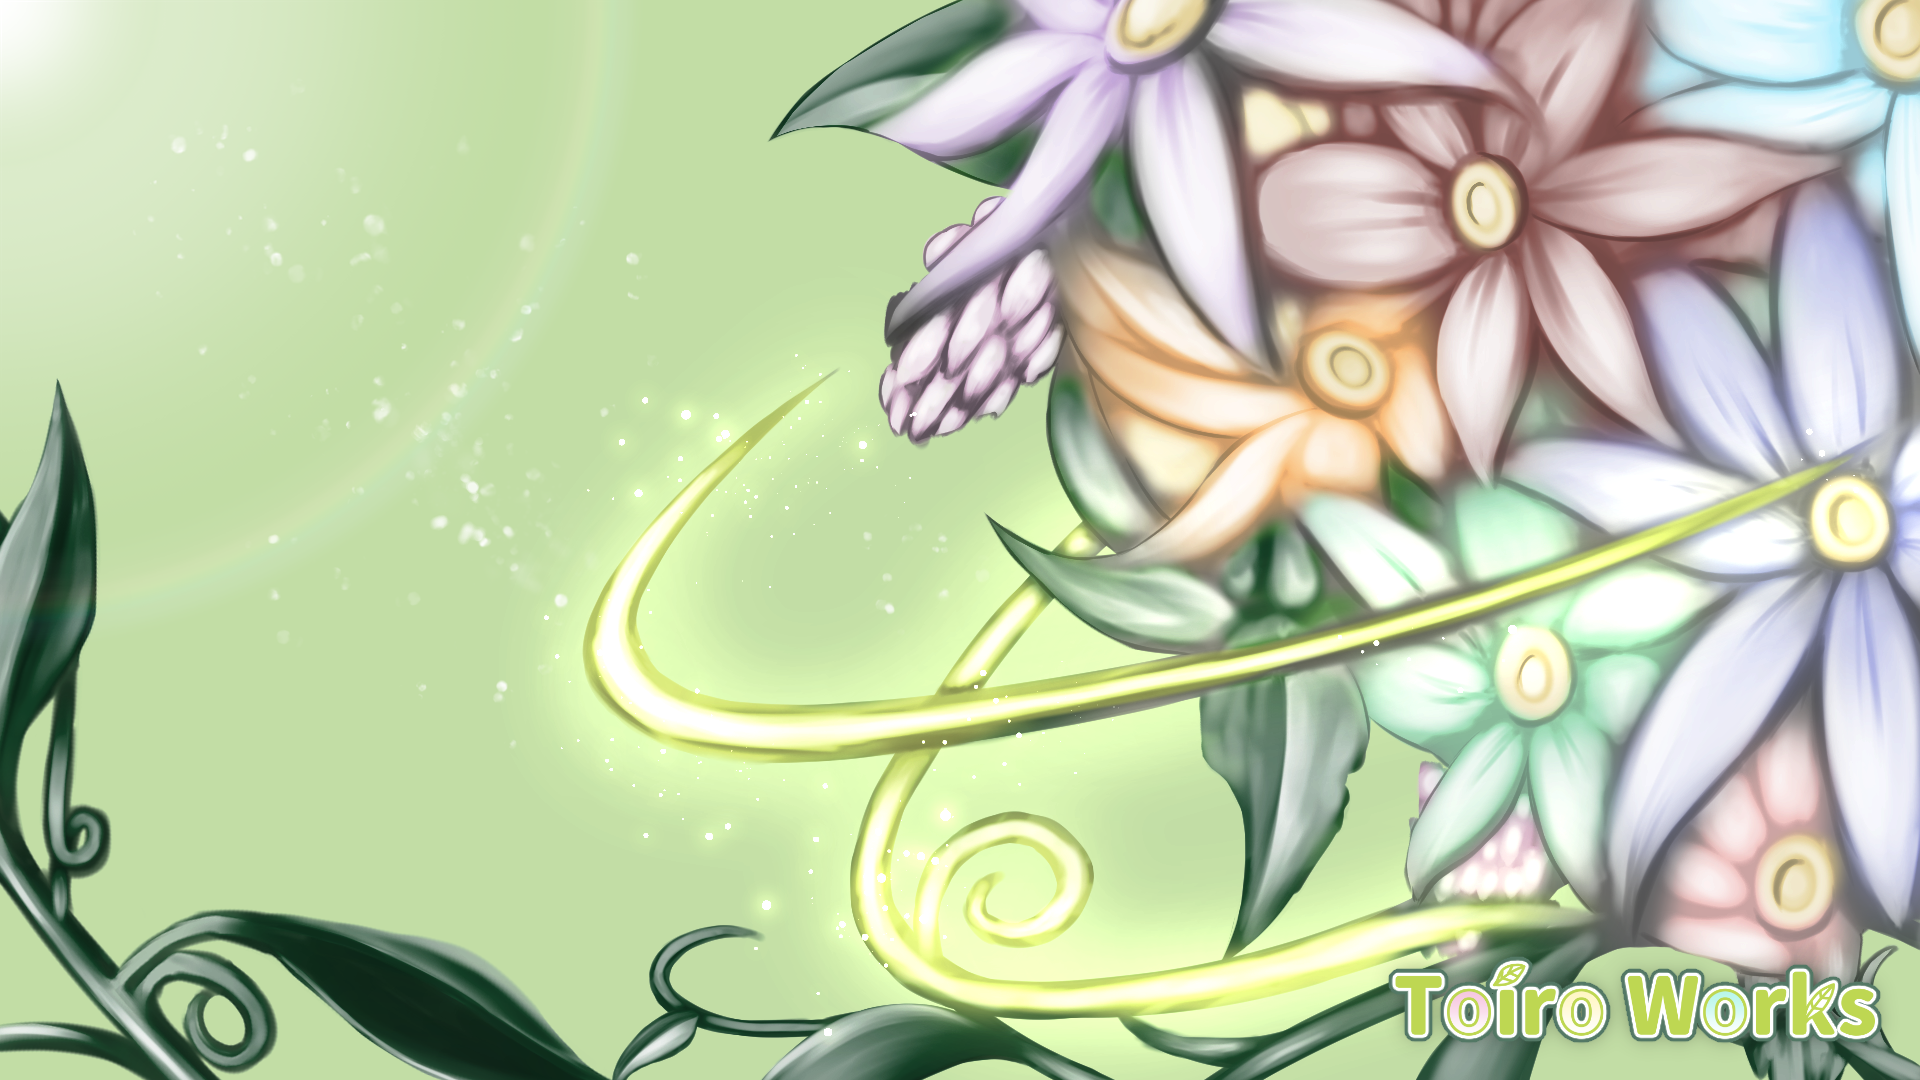
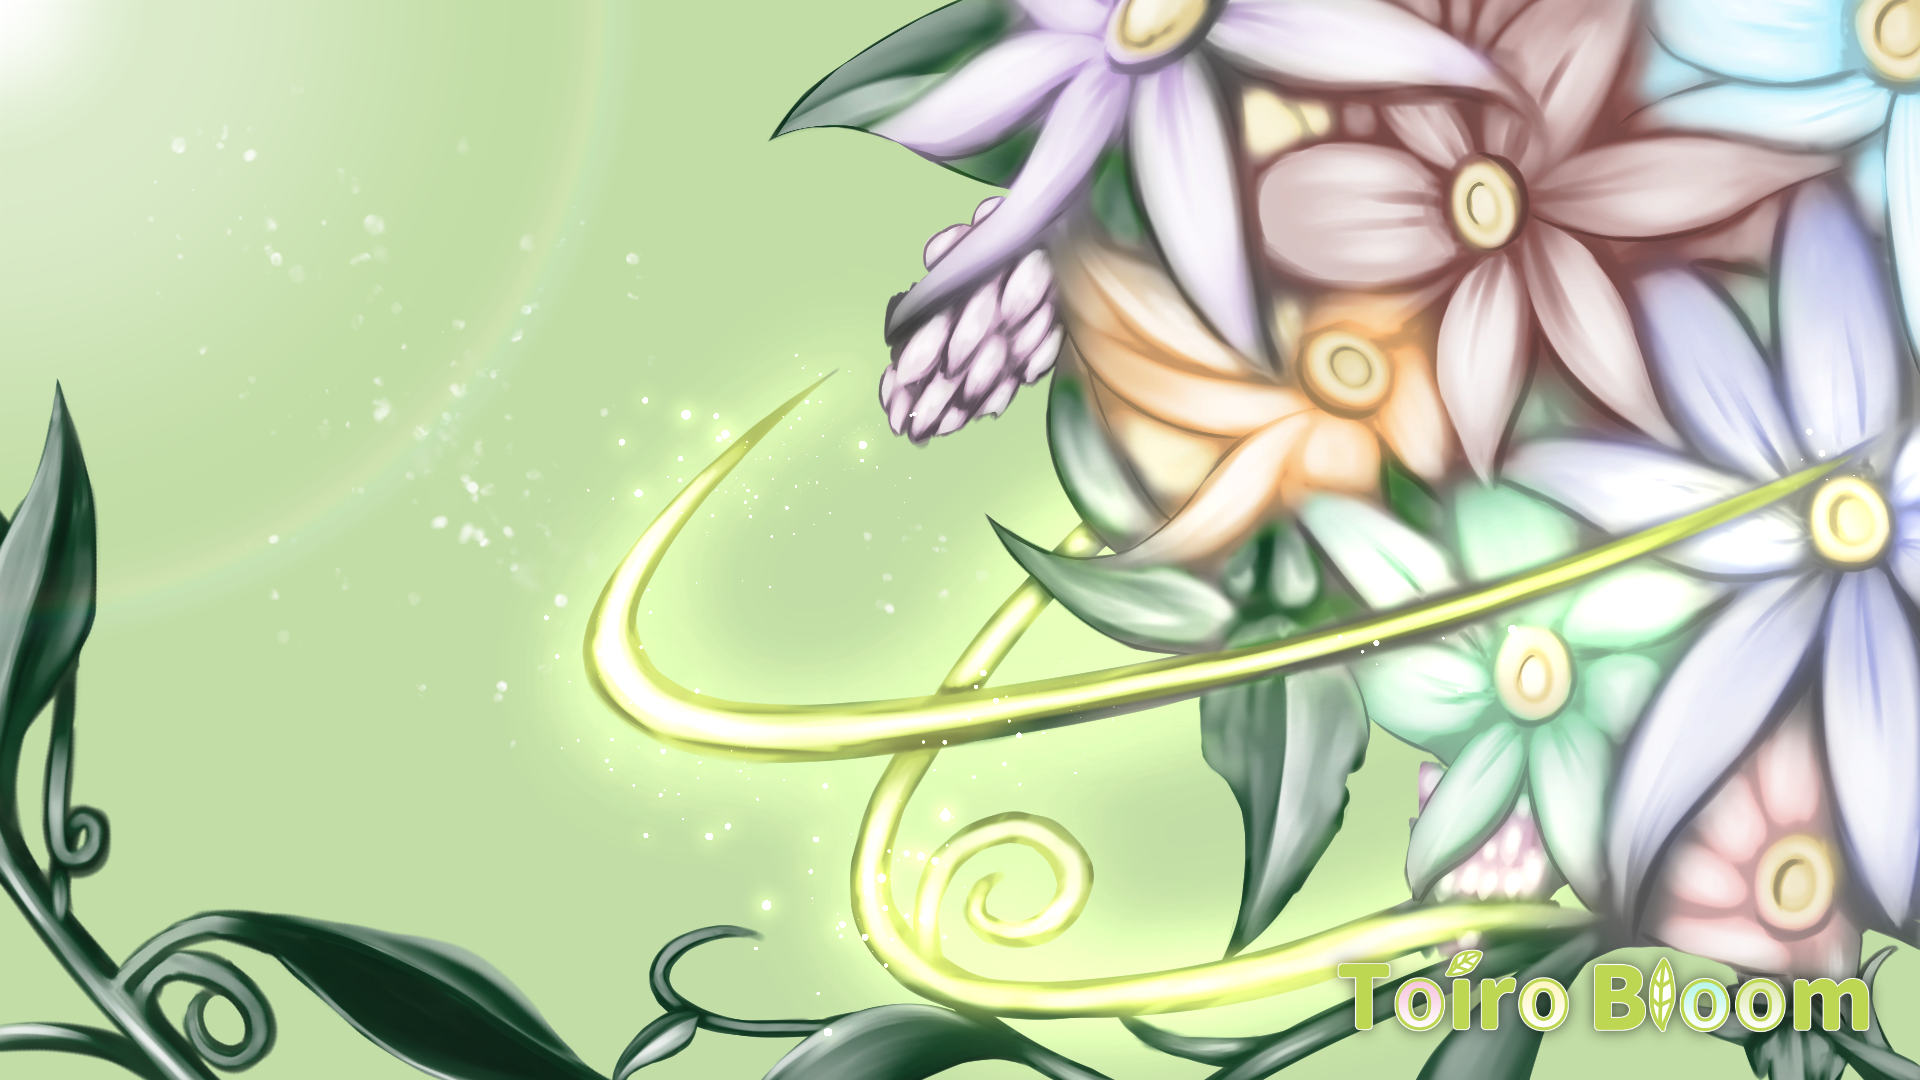
Add files via upload

Changed region(s): [[0.6875, 0.8556, 1.0, 0.9778]]

diff --git a/index.html b/index.html
@@ -4,7 +4,7 @@
 <meta charset="UTF-8">
 <meta name="viewport" content="width=device-width, initial-scale=1.0">
 <title>Komori Yatono Portfolio</title>
-<meta name="description" content="小森やと乃のポートフォリオサイトです。本サイトは、Web制作を行うフリーランスチーム Toiro Works の一部として運営されています。">
+<meta name="description" content="小森やと乃のポートフォリオサイトです。本サイトは、Web制作を行うフリーランスチーム Toiro Bloom の一部として運営されています。">
 
 <!-- Google Fonts -->
 <link rel="preconnect" href="https://fonts.googleapis.com">
@@ -64,18 +64,10 @@
 <section id="hero"></section>
 
 <main>
-<section id="about">
-  <h2>About</h2>
-  <div class="left-text">
-    <p>小森やと乃のポートフォリオサイトです。イラストやデザインの作品を紹介しています。</p>
-    <p>本サイトは、Web制作を行うフリーランスチーム"Toiro Works"の一部として運営されています。</p>
-    <p><b>※無断転載及びAI学習等といった迷惑行為等を固く禁じます。</b></p>
-  </div>
-</section>
 
 <section id="works-illustration">
   <div class="frame"><div class="frame-h2">
-  <h2>Works - for Toiro Works</h2>
+  <h2>Works - for Toiro Bloom</h2>
 
   <!-- 中型展示 -->
   <div class="gallery">
@@ -137,15 +129,15 @@
 
     <!-- 大型展示 -->
     <div class="gallery-item size-large works-image">
-      <a href="mv.png" data-lightbox="works" data-title="ToiroWorksメインビジュアル">
-        <div class="img-wrapper"><img src="mv.png" alt="ToiroWorksメインビジュアル" class="work-image"></div>
+      <a href="mv.png" data-lightbox="works" data-title="ToiroBloomメインビジュアル">
+        <div class="img-wrapper"><img src="mv.png" alt="ToiroBloomメインビジュアル" class="work-image"></div>
       </a>
       <p>メインビジュアル</p>
     </div>
 
     <div class="gallery-item size-large works-image">
-      <a href="ToiroWorks.png" data-lightbox="works" data-title="ToiroWorksロゴ">
-        <div class="img-wrapper"><img src="ToiroWorks.png" alt="ToiroWorksロゴ" class="work-image"></div>
+      <a href="ToiroBloom.png" data-lightbox="works" data-title="ToiroBloomロゴ">
+        <div class="img-wrapper"><img src="ToiroBloom.png" alt="ToiroBloomロゴ" class="work-image"></div>
       </a>
       <p>ロゴ</p>
     </div>
@@ -203,8 +195,24 @@
   <h2>X(旧Twitter)</h2>
   <p>@Komori_Yatono</p>
   <h2>所属チーム公式X</h2>
-  <p>@10iro_works</p>
+  <p>@10iro_bloom</p>
   <p><a href="https://x.com/10iro_works" class="button" target="_blank" rel="noopener noreferrer">お仕事依頼はこちらから</a></p>
+</section>
+
+<section id="about">
+  <h2>About</h2>
+
+  <div class="profile">
+    <img src="yatono.png" alt="プロフィールアイコン" class="icon">
+    <div class="left-text">
+    <p>名前：小森やと乃</p>
+    <p>web制作フリーランスチーム Toiro Bloom所属</p>
+    <p>イラスト制作が得意。同チーム内では、主に画像系を担当。</p>
+    <p>コーヒーとお酒を嗜むランタンヘッド。愛知出身。</p>
+    <p><b>※無断転載及びAI学習等禁止</b></p>
+  </div>
+  </div>
+
 </section>
 
 <!-- ガードロープ -->
@@ -217,7 +225,7 @@
 </main>
 
 <footer>
-<p>&copy; 2025 Toiro Works</p>
+<p>&copy; 2025 Toiro Bloom</p>
 </footer>
 
 <script src="https://cdnjs.cloudflare.com/ajax/libs/jquery/3.7.1/jquery.min.js"></script>

diff --git a/style.css b/style.css
@@ -35,6 +35,29 @@ section {
   margin: 0 auto;
 }
 
+.profile {
+  display:flex;
+  align-items: center;
+  gap:1rem;
+}
+
+.icon {
+  width:200px;
+  height:200px;
+  border-radius:50%;
+  object-fit: cover;
+  margin-block-start:30px;
+  margin-left: auto;
+}
+
+.crated-by {
+  display:row
+}
+
+.text {
+  margin:0;
+}
+
 /* hero */
 #hero {
   width: 100%;
@@ -323,4 +346,17 @@ footer {
   .gallery { flex-direction: column; align-items: center; }
   .gallery-item.size-medium { width: 90%; }
   .gallery-item.size-large { width: 95%; }
+}
+
+@media (max-width: 600px) {
+  .profile {
+    flex-direction:column;
+    text-align:center;
+    justify-content: center;
+  }
+
+  .icon {
+    align-items:center;
+    margin-right: auto !important;
+  }
 }
